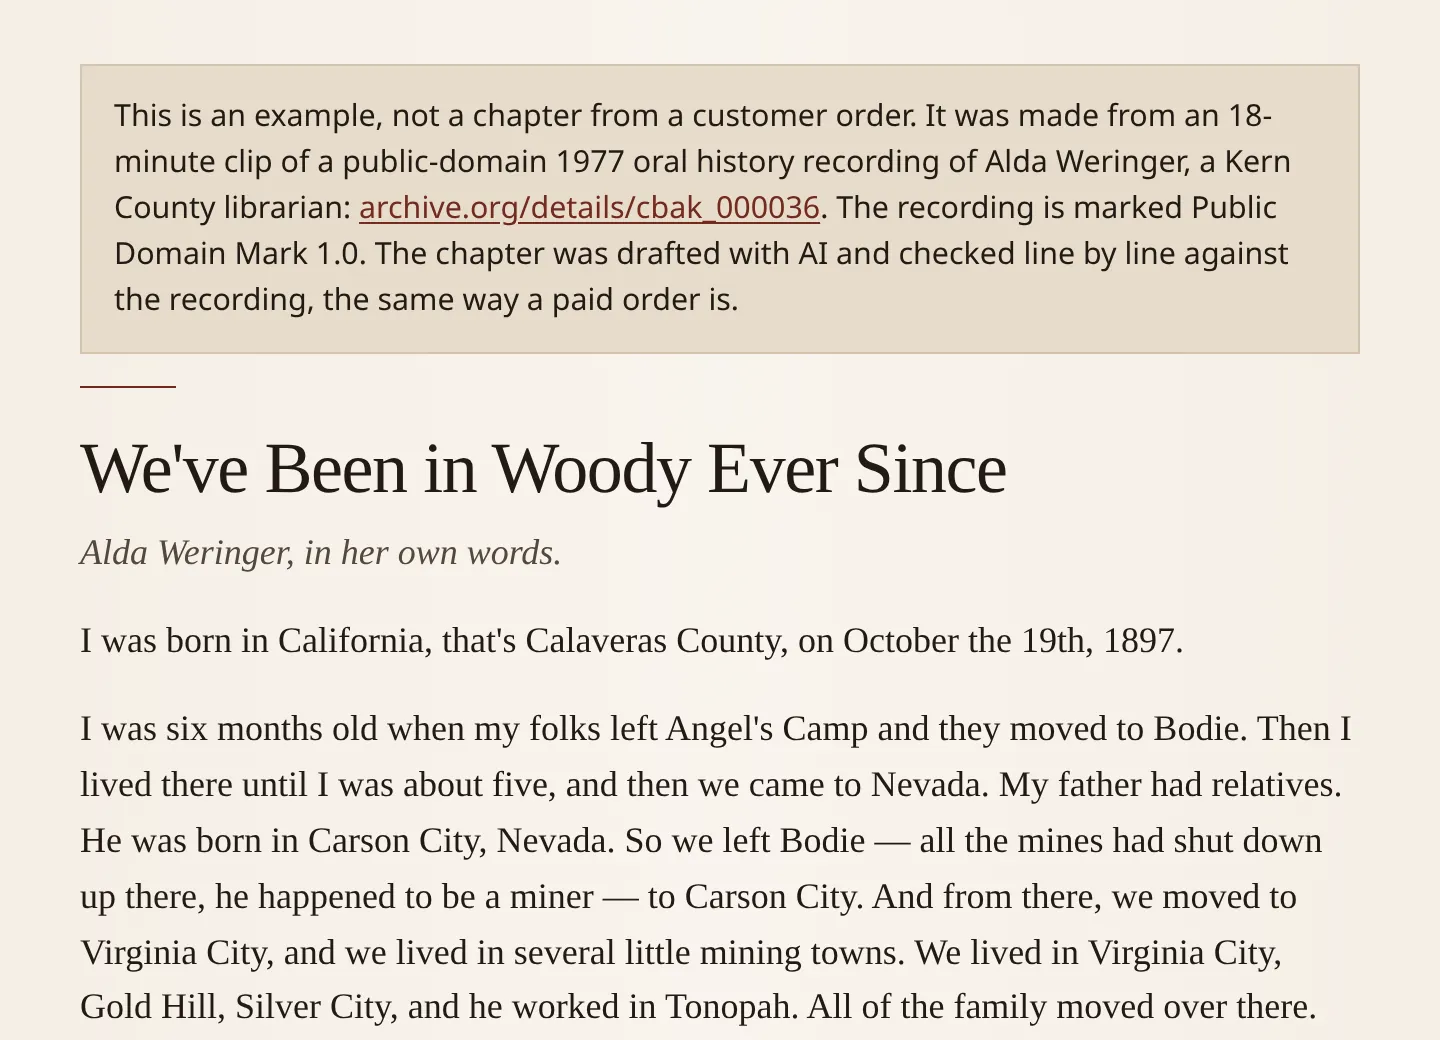
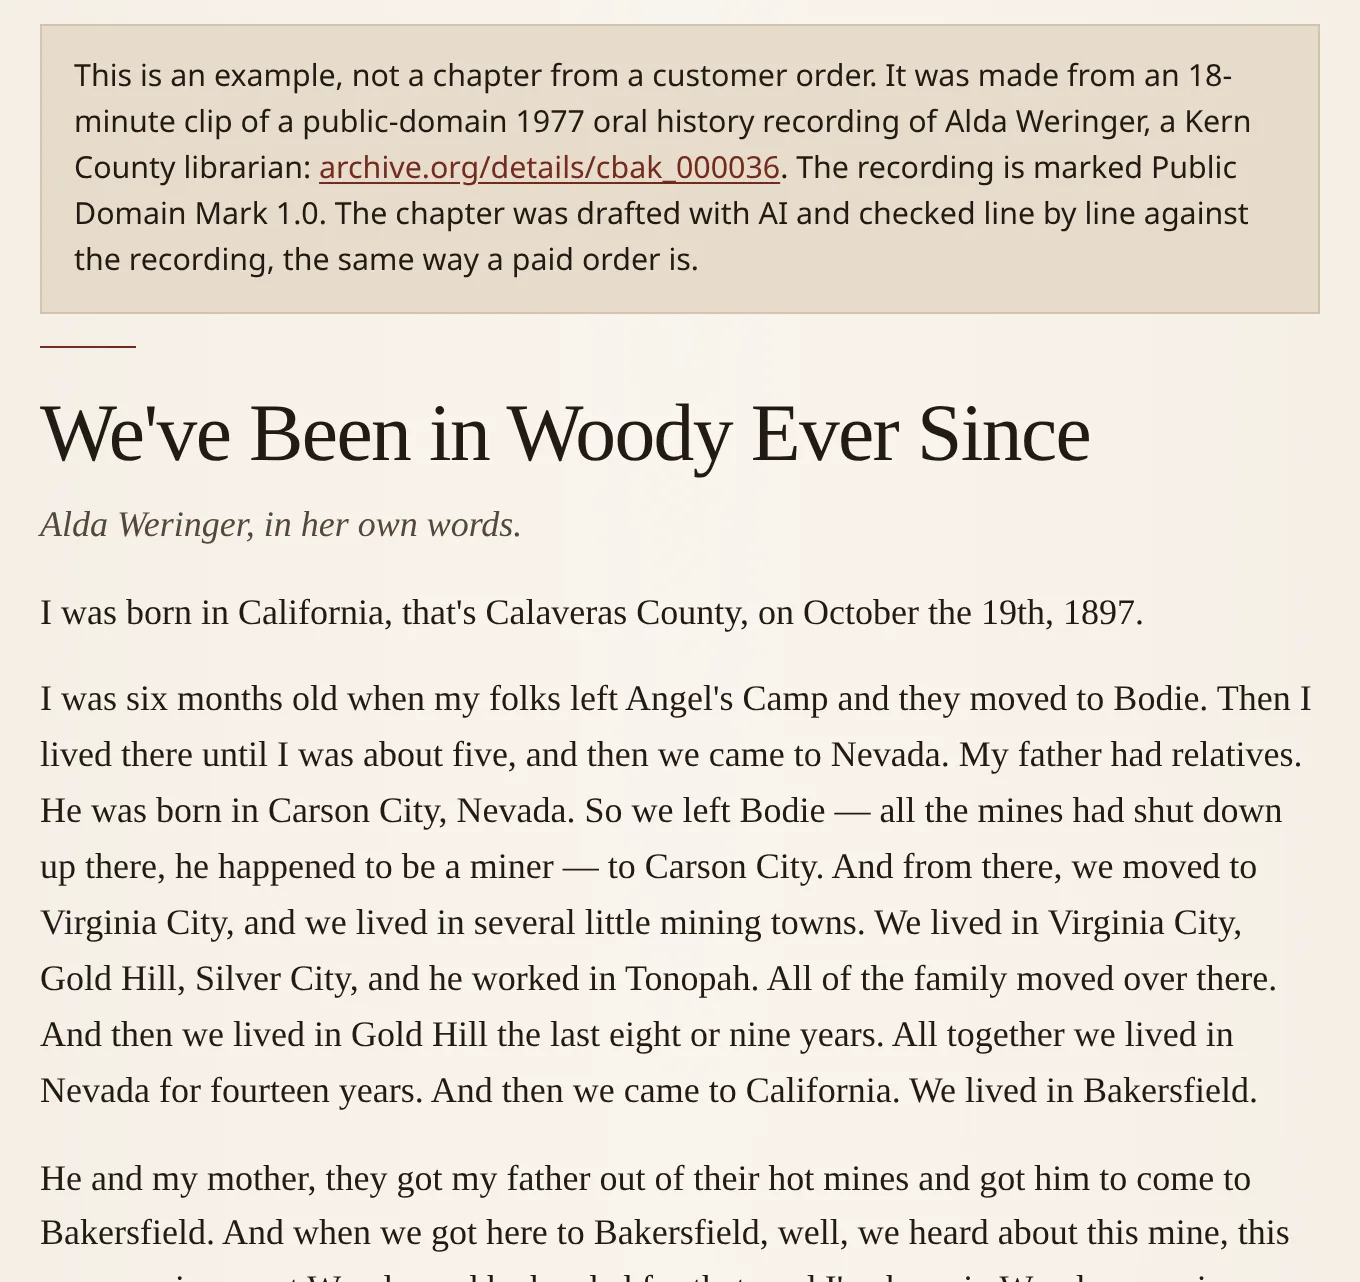
Enlarge the home sample-chapter photo and cut repeated below-fold copy.
The 390 fold keeps the pause box and waitlist, and leaves the lede below. Orders stay closed. No official lockup; the text wordmark stays.

diff --git a/index.html b/index.html
@@ -40,7 +40,7 @@
         <h1>A story chapter in their own words.</h1>
         <p class="hero-chapter">
           <a href="sample/">
-            <img class="hero-shot" src="img/sample-chapter.webp" srcset="img/sample-chapter.webp 720w, img/sample-chapter-2x.webp 1440w" sizes="(max-width: 40rem) calc(100vw - 2rem), 36rem" width="720" height="520" alt="The opening of the sample chapter We've Been in Woody Ever Since, laid out as a finished keepsake page.">
+            <img class="hero-shot" src="img/sample-chapter.webp" srcset="img/sample-chapter.webp 720w, img/sample-chapter-2x.webp 1440w" sizes="(max-width: 40rem) calc(100vw - 2rem), 36rem" width="680" height="641" alt="The opening of the sample chapter We've Been in Woody Ever Since, laid out as a finished keepsake page.">
           </a>
         </p>
       </section>
@@ -77,15 +77,12 @@
     <section class="how-it-reads" aria-label="How a chapter is made">
         <p class="lede">Sit down with a parent or a grandparent for ten or twenty minutes — or use a recording you already have — and send it to us. Within 48 hours, you get back a finished story chapter in that person’s own words: a PDF and an editable text file, with one free revision.</p>
         <p>They don’t need an app, an account, or any homework. One conversation is enough.</p>
-        <p>Every quote in the chapter comes from the recording. We don’t invent words. If we’re unsure of a name or a date, we send those back to you as questions.</p>
-        <p class="fine">We delete the audio and the transcript 30 days after we send the chapter. We don’t clone anyone’s voice, reuse the recording, use it for training, or share it. Each chapter is drafted with AI and checked line by line. You must be 18 or older. Full refund on request. <a href="privacy.html">Privacy, consent, and refunds</a>.</p>
     </section>
 
 
     <section class="section-block" id="what-to-record" aria-labelledby="record-title">
       <h2 id="record-title">What to record</h2>
       <p>Ten to twenty minutes is enough. Ask them first, sit somewhere quiet, and use the voice memo app already on the phone. One story, or a stretch of ordinary life, works better than trying to cover everything.</p>
-      <p>You don’t need to get every name and date in the room — if we’re unsure of one, we’ll send it back as a question. Each chapter comes with a one-page card with phone tips and ten good questions.</p>
     </section>
 
     <section class="section-block" id="how" aria-labelledby="how-title">

diff --git a/css/site.css b/css/site.css
@@ -815,6 +815,7 @@ input[type="checkbox"] {
 }
 
 .hero-offer .hero {
+  width: 100%;
   margin: 0;
 }
 
@@ -1164,6 +1165,7 @@ label.consent-label input[type="checkbox"] {
 .site-nav a, .wordmark { min-width: 48px; }
 .btn, .offer-card .btn { min-height: 48px; }
 .hero-chapter { margin: 0 0 1.25rem; }
+.hero-chapter a { display: block; width: 100%; }
 .hero-shot {
   display: block;
   width: 100%;
@@ -1181,8 +1183,18 @@ details a { min-height: 24px; min-width: 0; }
 .how-it-reads .lede { margin-top: 0.5rem; }
 
 @media (max-width: 899px) {
-  .offer-card { display: flex; flex-direction: column; }
+  main { padding-top: 0.75rem; }
+  .hero-offer { margin-top: 0.75rem; }
+  .hero-offer .ornament { margin-bottom: 0.5rem; }
+  .hero-offer .hero h1 { margin-bottom: 0.5rem; }
+  .hero-chapter { margin-bottom: 0.5rem; }
+  .hero-shot {
+    width: 100%;
+    height: auto;
+  }
+  .offer-card { display: flex; flex-direction: column; padding-top: 0.85rem; }
   .offer-card .opening-box { order: 1; }
+  .offer-card h2 { order: 2; }
   .offer-card .offer-list { order: 2; }
   .offer-card > .fine { order: 3; }
 }

diff --git a/LOG.md b/LOG.md
@@ -140,3 +140,17 @@ Local measure after the move:
 Before shots (live, pre-change): `/workspace/mason/scan-pass-shots/order-1115/before-stl-home-{390,1280}.png`. After (local): `/workspace/mason/scan-pass-shots/order-1115/after-stl-home-{390,1280}.png`.
 
 Follow-up in the same order: raised `.hero-offer` desktop margin-bottom from 8rem to 16rem so the lede stays below a 1440×900 fold (visual-qa-gate desktop). Set `.fine a` to min-height 24px for the "Privacy, consent, and refunds" link (Shears 24px secondary-link rule). `ORDERS_OPEN` still false.
+
+## 2026-11-27 ~11:40 AM CT (Mason)
+
+Shears recheck (11:06–11:16, against 50e741e) plus Dash 11:15 order, folded into the same STL batch.
+
+- Lede and follow-up stay below the 390 fold; the “Opening soon” box and waitlist are first in the offer card at 390 (already in 3810121 / 03d5ec7).
+- Enlarged the sample-chapter picture: recropped a taller frame of the same public-domain sample page (full width, more of the chapter) so the visible box at 390 is 350×330, hero **0.351**. No new copy in or around the image. No side cropping.
+- Deleted, did not rewrite, three below-fold passages that repeated facts already in “How it works” or on /privacy.html: the “Every quote…” paragraph, the long privacy `.fine` on the home page (Privacy remains in the header nav), and the second “What to record” paragraph. Total 427 (cap 450). Words/screen 109 (cap 110).
+- No official Ansel lockup exists for Share This Life; the italic text wordmark is unchanged. Noted here on purpose.
+- `ORDERS_OPEN` remains false. Hidden pay button stays hidden. No Stripe URL in the HTML.
+
+Shears-method local measure at 390: sweep fold prose **29** (h1 7 + “Opening soon” 2 + paused-orders 15 + the waitlist label 5), mason 12+ 15, fold words 37, hero 0.351, total 427, wps 109, taps fail 0, overflow 0, logo=text-wordmark. At 1280: sweep prose 36, fold 73, lede top 1026 (below 800 and 900).
+
+Shots: `/workspace/mason/scan-pass-shots/order-1115/after-hero-stl-home-{390,1280}.png` and `shears-local3/`.
